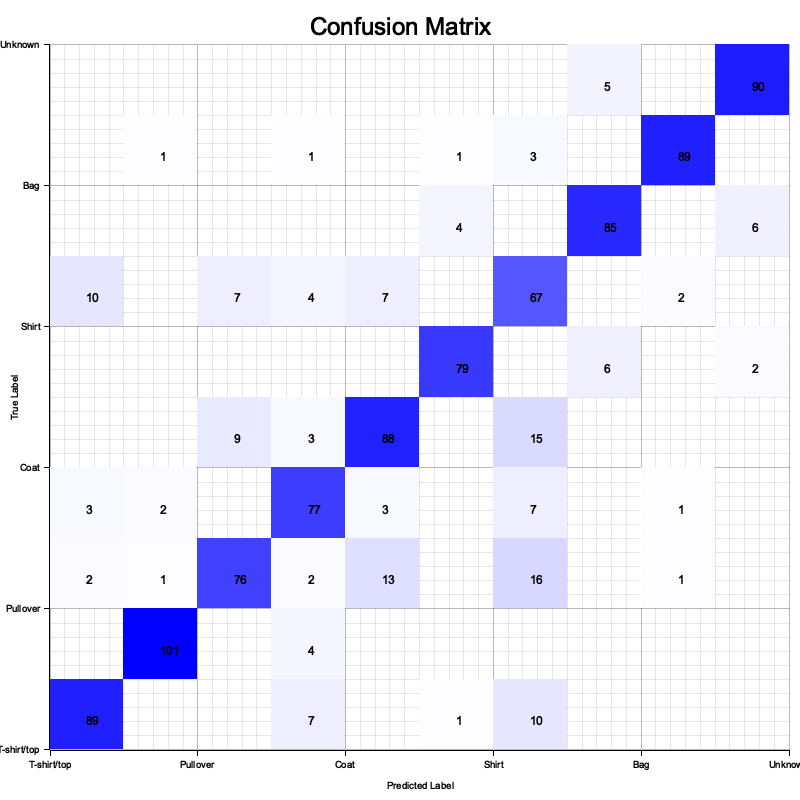
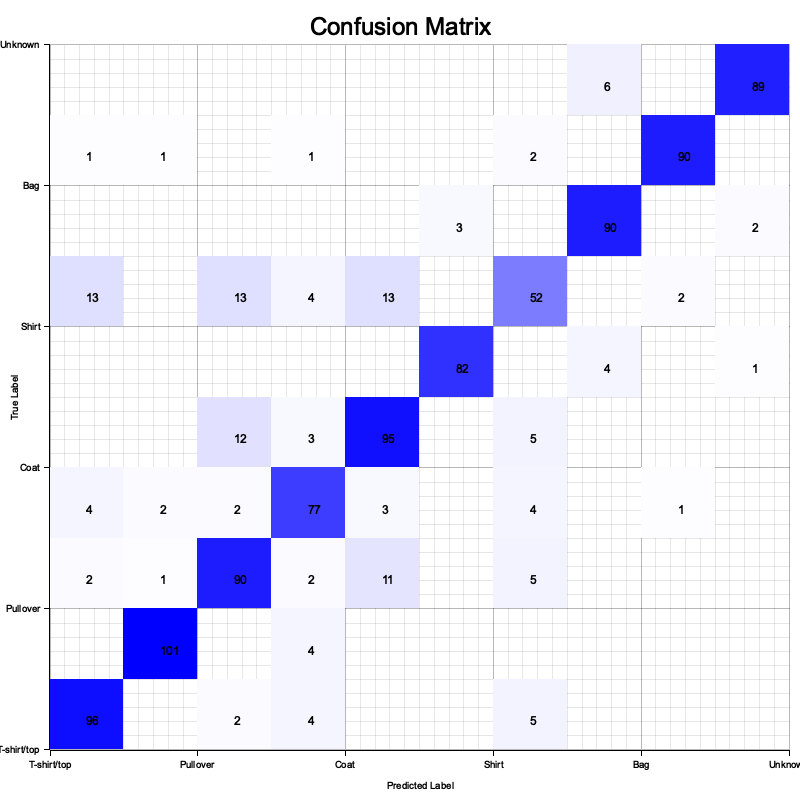
Enhance dataset handling and training process:
- Implement dynamic dataset path resolution with fallback for better flexibility.
- Improve robust error handling in dataset file reading (e.g., file opening, seeking).
- Increase training epochs from 10 to 15 for more iterations.
- Add new training visualizations: confusion matrix, predictions, training samples, and loss progression.

diff --git a/fashion-mnist/src/dataset.rs b/fashion-mnist/src/dataset.rs
@@ -61,11 +61,31 @@ impl Dataset<MnistItem> for FashionMNISTDataset {
 impl FashionMNISTDataset {
     /// Creates a new train dataset.
     pub fn train() -> Self {
+        // Try different paths to find the data directory
+        let paths = vec!["./data", "../fashion-mnist/data", "./fashion-mnist/data"];
+
+        for path in paths {
+            if Path::new(path).exists() {
+                return Self::train_with_root(path);
+            }
+        }
+
+        // If none of the paths exist, use the first one and let the error handling show a clear message
         Self::train_with_root("./data")
     }
 
     /// Creates a new test dataset.
     pub fn test() -> Self {
+        // Try different paths to find the data directory
+        let paths = vec!["./data", "../fashion-mnist/data", "./fashion-mnist/data"];
+
+        for path in paths {
+            if Path::new(path).exists() {
+                return Self::test_with_root(path);
+            }
+        }
+
+        // If none of the paths exist, use the first one and let the error handling show a clear message
         Self::test_with_root("./data")
     }
 
@@ -109,19 +129,32 @@ impl FashionMNISTDataset {
         } else {
             TEST_IMAGES
         };
-        let file_name = root.as_ref().join(file_name);
+        let file_path = root.as_ref().join(file_name);
+
         // Read number of images from 16-byte header metadata
-        let mut f = File::open(file_name).unwrap();
+        let mut f = match File::open(&file_path) {
+            Ok(file) => file,
+            Err(e) => panic!("Failed to open image file at {:?}: {}", file_path, e),
+        };
+
         let mut buf = [0u8; 4];
-        let _ = f.seek(SeekFrom::Start(4)).unwrap();
+        match f.seek(SeekFrom::Start(4)) {
+            Ok(_) => {},
+            Err(e) => panic!("Failed to seek in image file: {}", e),
+        }
+
         f.read_exact(&mut buf)
             .expect("Should be able to read image file header");
         let size = u32::from_be_bytes(buf);
 
         let mut buf_images: Vec<u8> = vec![0u8; WIDTH * HEIGHT * (size as usize)];
-        let _ = f.seek(SeekFrom::Start(16)).unwrap();
+        match f.seek(SeekFrom::Start(16)) {
+            Ok(_) => {},
+            Err(e) => panic!("Failed to seek in image file: {}", e),
+        }
+
         f.read_exact(&mut buf_images)
-            .expect("Should be able to read image file header");
+            .expect("Should be able to read image file content");
 
         buf_images
             .chunks(WIDTH * HEIGHT)
@@ -136,18 +169,30 @@ impl FashionMNISTDataset {
         } else {
             TEST_LABELS
         };
-        let file_name = root.as_ref().join(file_name);
+        let file_path = root.as_ref().join(file_name);
 
         // Read number of labels from 8-byte header metadata
-        let mut f = File::open(file_name).unwrap();
+        let mut f = match File::open(&file_path) {
+            Ok(file) => file,
+            Err(e) => panic!("Failed to open label file at {:?}: {}", file_path, e),
+        };
+
         let mut buf = [0u8; 4];
-        let _ = f.seek(SeekFrom::Start(4)).unwrap();
+        match f.seek(SeekFrom::Start(4)) {
+            Ok(_) => {},
+            Err(e) => panic!("Failed to seek in label file: {}", e),
+        }
+
         f.read_exact(&mut buf)
             .expect("Should be able to read label file header");
         let size = u32::from_be_bytes(buf);
 
         let mut buf_labels: Vec<u8> = vec![0u8; size as usize];
-        let _ = f.seek(SeekFrom::Start(8)).unwrap();
+        match f.seek(SeekFrom::Start(8)) {
+            Ok(_) => {},
+            Err(e) => panic!("Failed to seek in label file: {}", e),
+        }
+
         f.read_exact(&mut buf_labels)
             .expect("Should be able to read labels from file");
 

diff --git a/fashion-mnist/src/train.rs b/fashion-mnist/src/train.rs
@@ -318,7 +318,7 @@ pub fn run() -> Result<(), Box<dyn Error>> {
     create_artifact_dir("/tmp/burn-example-mnist-wgpu");
 
     // Training parameters
-    let epochs = 10;
+    let epochs = 15;
     let learning_rate = 0.003;
 
     // Use WGPU backend for training
